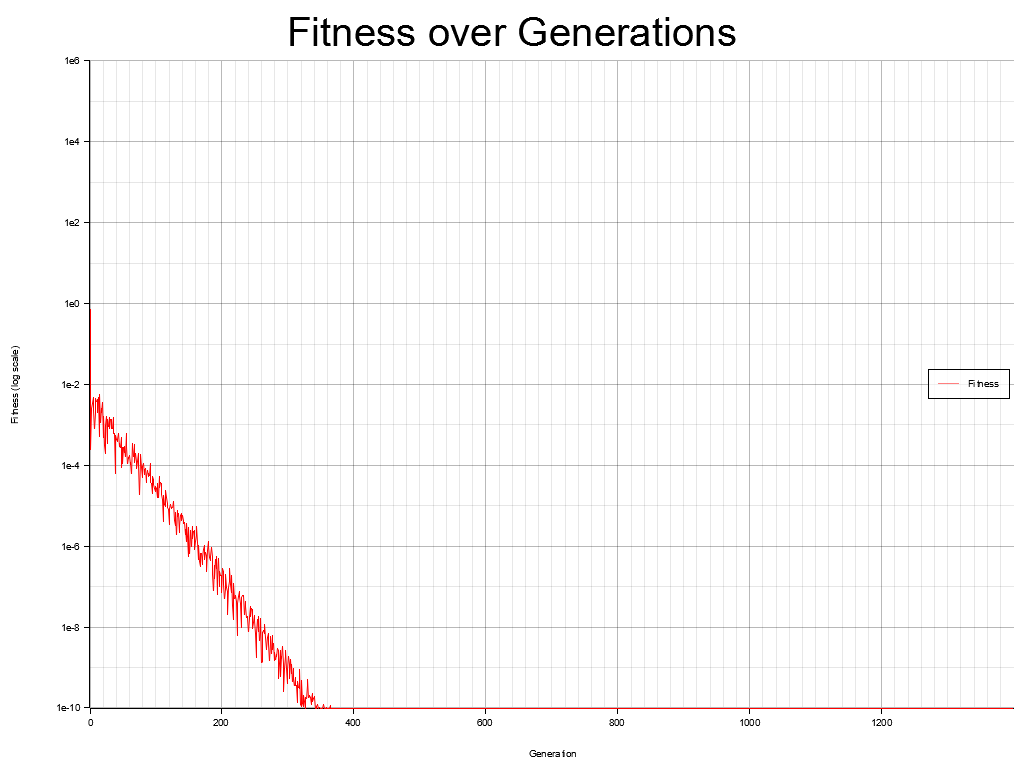
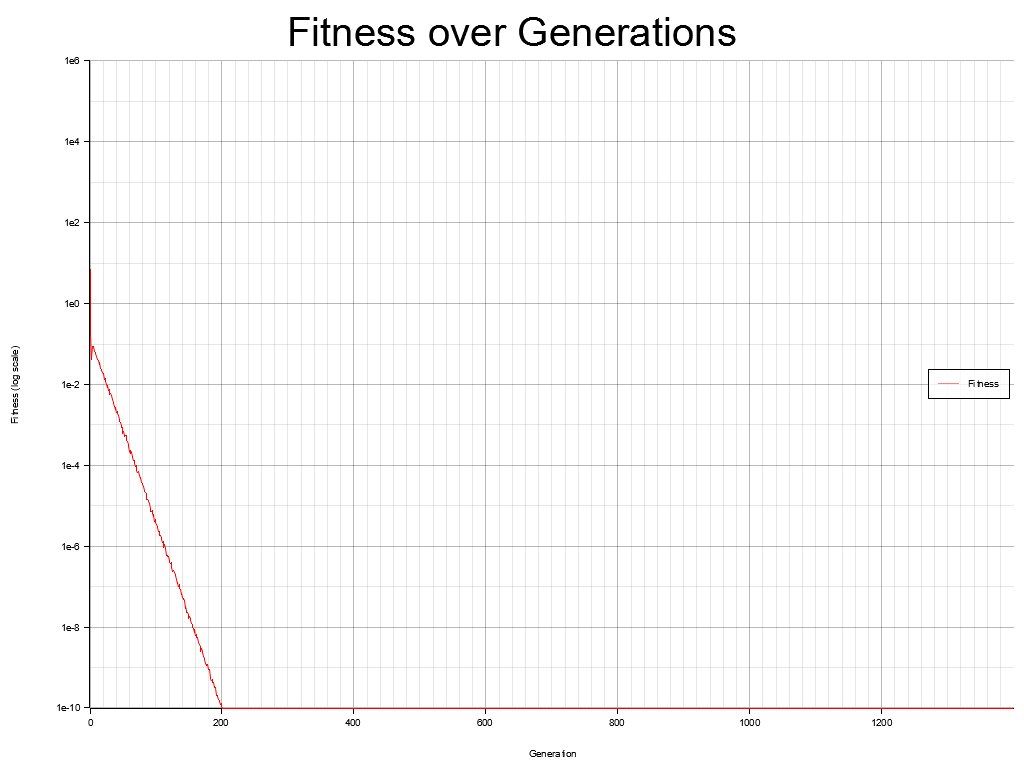
8 fitness functions

Changed region(s): [[0.125, 0.5938, 0.3125, 0.9375], [0.0625, 0.5, 0.125, 0.5938]]

diff --git a/src/main.rs b/src/main.rs
@@ -9,8 +9,8 @@ use std::f64;
 
 const MU: usize = 50; // Number of best solutions to keep
 const H: usize = 5; // History size
-const CC: f64 = 0.05; // Learning rate for covariance matrix
-const CD: f64 = 0.05; // Learning rate for differential weights
+const CC: f64 = 0.1; // Learning rate for covariance matrix
+const CD: f64 = 0.1; // Learning rate for differential weights
 const EPSILON: f64 = 0.1; // Small constant
 
 static mut DIMENSIONS: usize = 3; // Dimensionality of the problem
@@ -19,7 +19,7 @@ static mut MAX_GENERATIONS: usize = 30000; // Max number of generations (will be
 
 fn main() {
     unsafe {
-        DIMENSIONS = 3; // Set your desired dimensions
+        DIMENSIONS = 30; // Set your desired dimensions
         LAMBDA = 4 + (3.0 * (DIMENSIONS as f64).ln()).floor() as usize;
         // MAX_GENERATIONS = 10000 * DIMENSIONS;
         MAX_GENERATIONS = 1400;
@@ -28,8 +28,54 @@ fn main() {
     println!("LAMBDA: {}", unsafe { LAMBDA });
     println!("MAX_GENERATIONS: {}", unsafe { MAX_GENERATIONS });
 
-    let mut des = DES::new();
-    des.run(|x| x.iter().map(|&xi| xi * xi).sum(), "sum_of_squares.png"); // Optimize the sum of squares function
+    // Fitness function 1
+    let mut des1 = DES::new();
+    des1.run(
+        |x| x.iter().map(|&xi| xi * xi).sum(),
+        "sum_of_squares.png"
+    );
+    // Fitness function 2
+    let mut des2 = DES::new();
+    des2.run(
+        |x| x[0] * x[0] + 1e6 * x.iter().skip(1).map(|&xi| xi * xi).sum::<f64>(),
+        "cigar.png"
+    );
+    // Fitness function 3
+    let mut des3 = DES::new();
+    des3.run(
+        |x| 1e6 * x[0] * x[0] + x.iter().skip(1).map(|&xi| xi * xi).sum::<f64>(),
+        "discus.png"
+    );
+    // Fitness function 4
+    let mut des4 = DES::new();
+    des4.run(
+        |x| x.iter().enumerate().map(|(i, &xi)| 10_f64.powf(6.0 * (i as f64 - 1.0) / (x.len() as f64 - 1.0)) * xi * xi).sum::<f64>(),
+        "ellipsoid.png",
+    );
+    // Fitness function 5
+    let mut des5 = DES::new();
+    des5.run(
+        |x| x.iter().enumerate().map(|(i, &xi)| xi.powf(2.0 * (1.0 + 5.0 * (i as f64 - 1.0) / (x.len() as f64 - 1.0)))).sum::<f64>(),
+        "different_powers.png",
+    );
+    // Fitness function 6
+    let mut des6 = DES::new();
+    des6.run(
+        |x| x[0] + 100.0 * x[1..].iter().map(|&xi| xi * xi).sum::<f64>(),
+        "sharp_ridge.png",
+    );
+    // Fitness function 7
+    let mut des7 = DES::new();
+    des7.run(
+        |x| x[0] + 100.0 * (x[1..].iter().map(|&xi| xi * xi).sum::<f64>()).sqrt(),
+        "parabolic_ridge.png",
+    );
+    // Fitness function 8
+    let mut des8 = DES::new();
+    des8.run(
+        |x| (0..x.len() - 1).map(|i| 100.0 * (x[i] * x[i] - x[i+1] * x[i+1]) + (x[i] - 1.0).powi(2)).sum::<f64>(),
+        "Rosenbrock.png",
+    );
 }
 
 struct DES {
